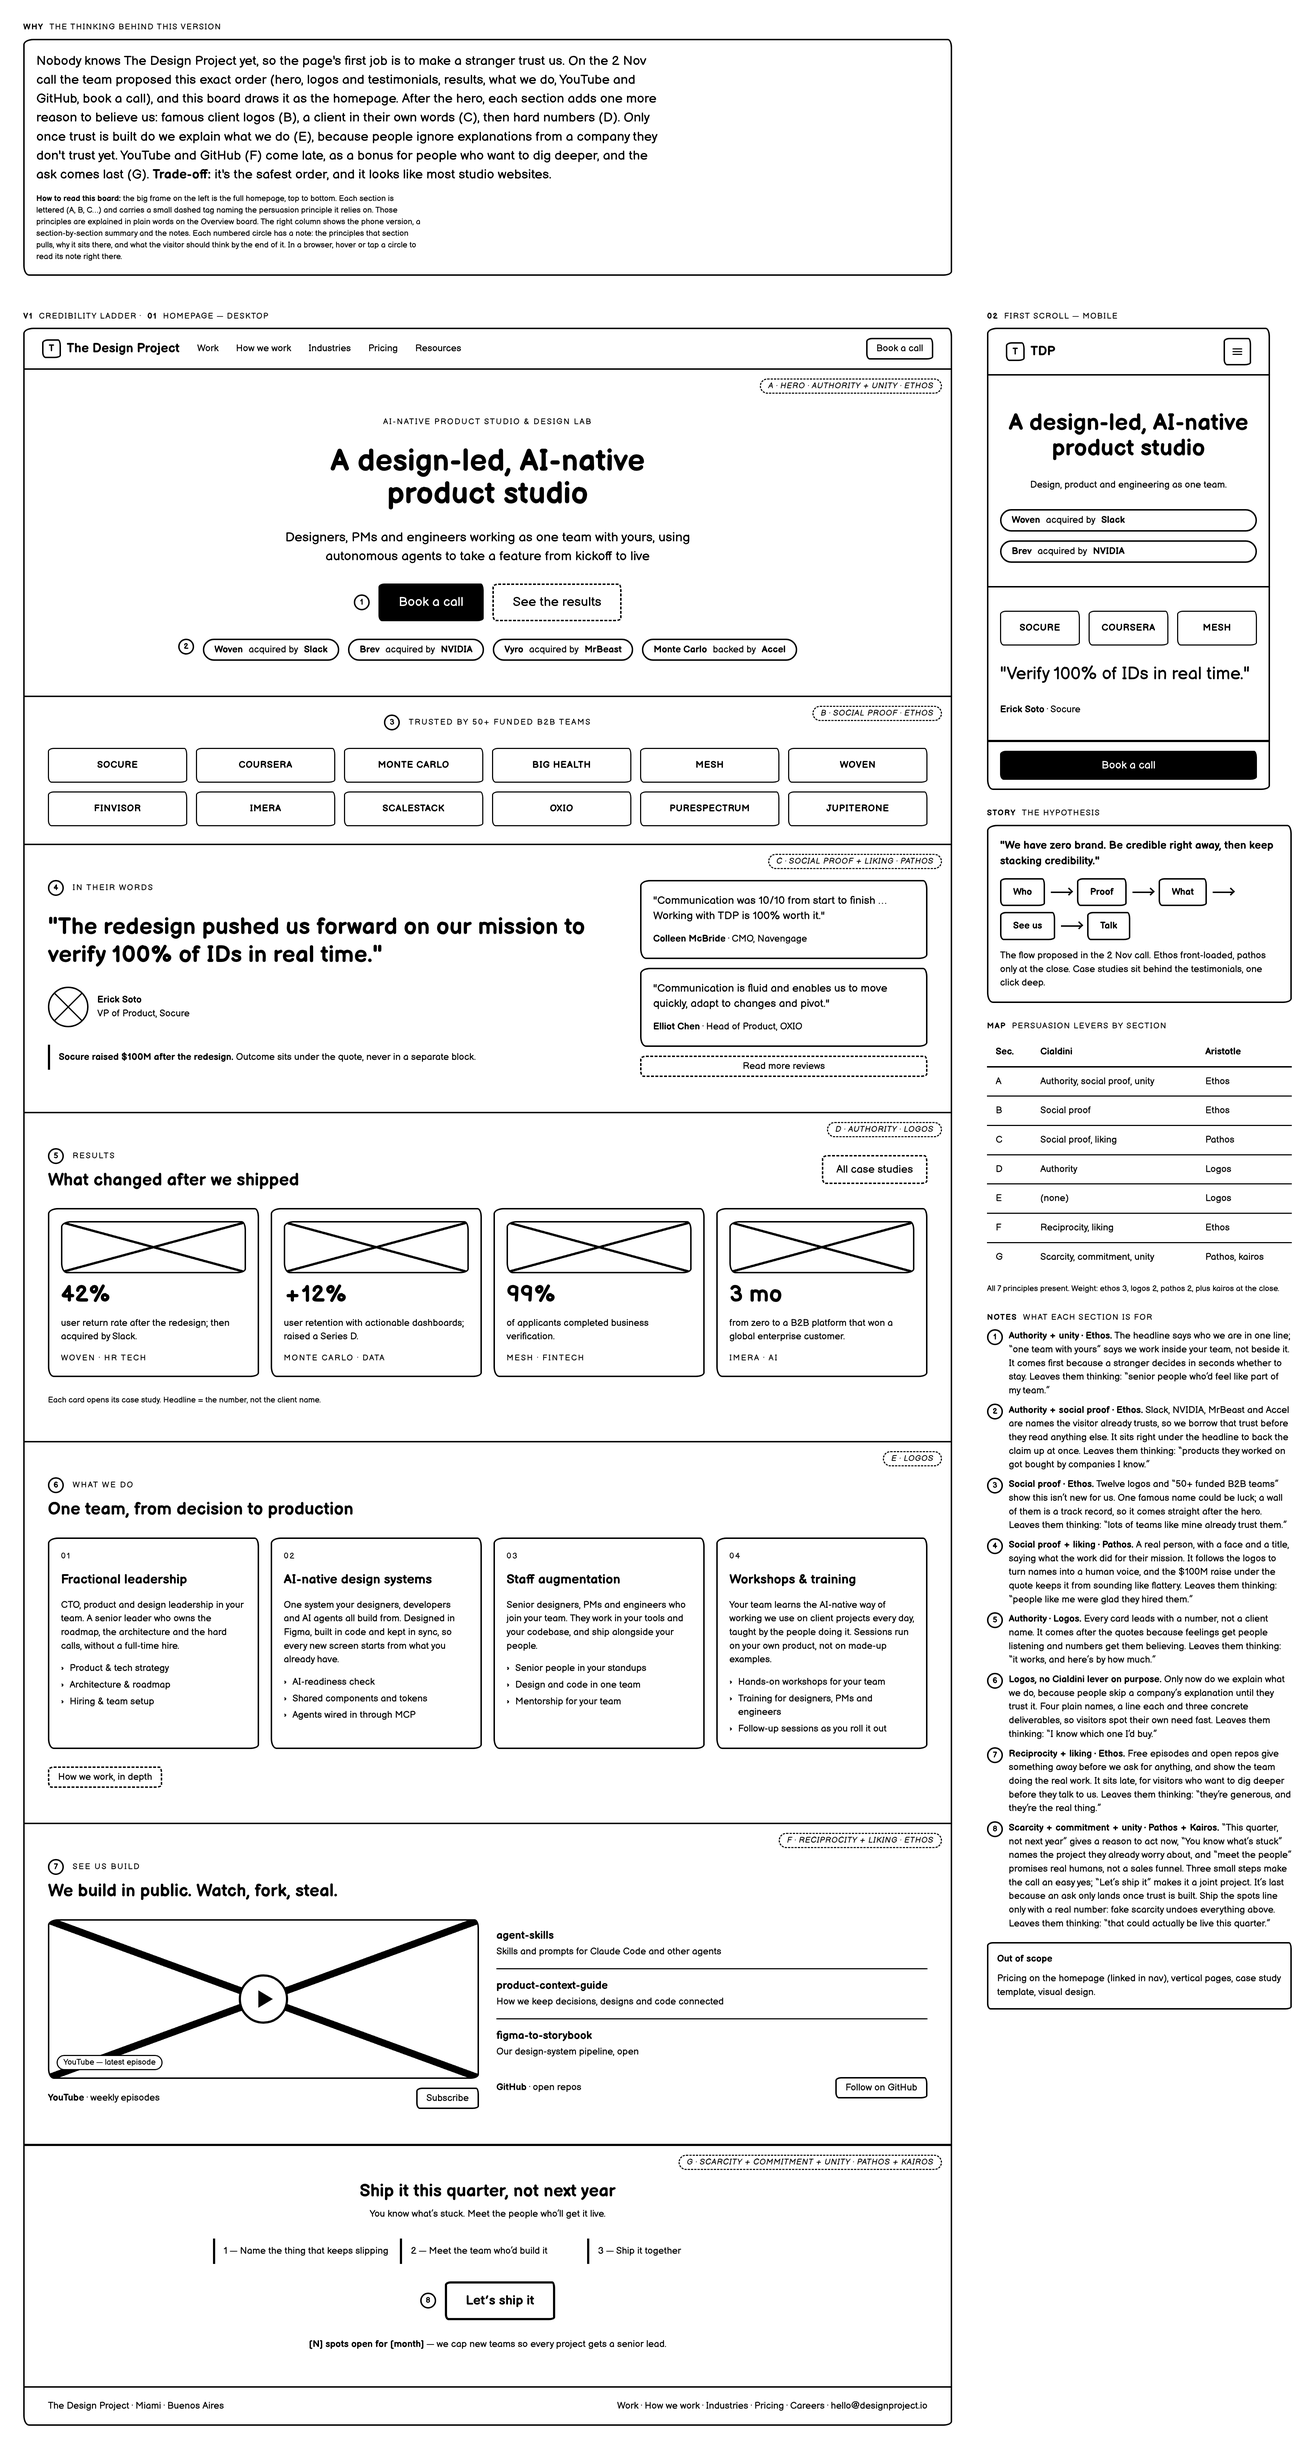
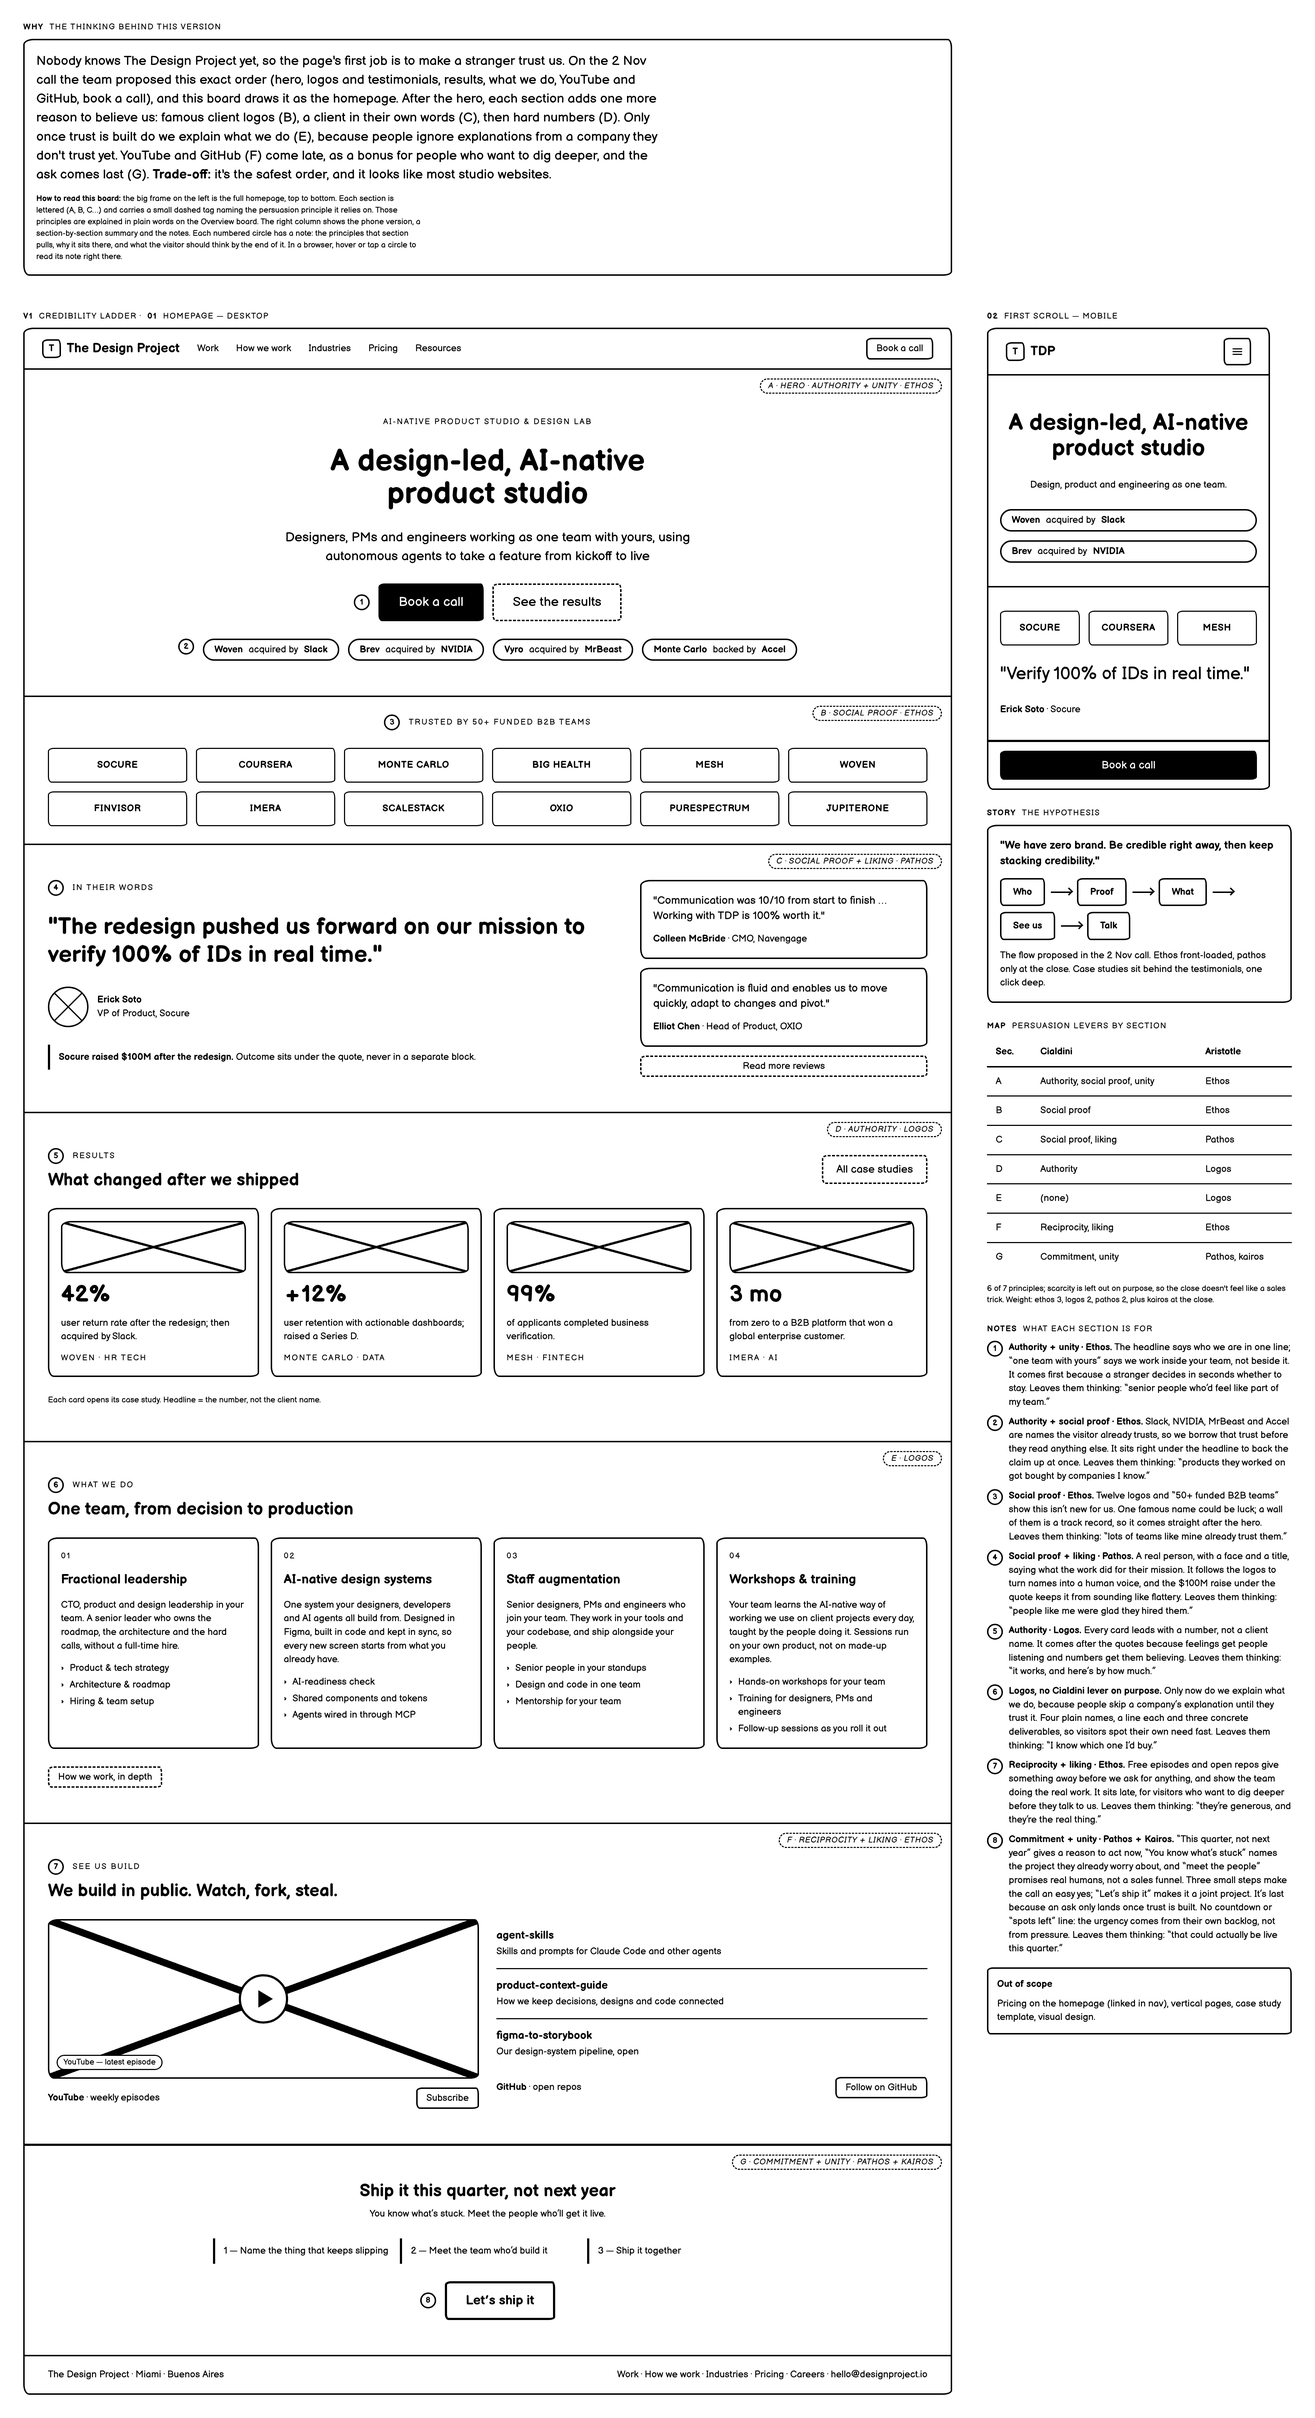
fix(wireframes): V1 close drops the '[N] spots open' line
It read as spammy. Scarcity comes off V1's close tag, map, note 8 and the
round 1 overview matrix; the urgency now comes from the headline.

diff --git a/wireframes/designproject-io/v1-credibility-ladder.standalone.html b/wireframes/designproject-io/v1-credibility-ladder.standalone.html
@@ -934,7 +934,7 @@ small { font-size: var(--fs-xs); }
 
       <!-- G. close -->
       <section class="section section--loud section--center">
-        <span class="lens">G · Scarcity + Commitment + Unity · Pathos + Kairos</span>
+        <span class="lens">G · Commitment + Unity · Pathos + Kairos</span>
         <div class="section__head">
           <h2>Ship it this quarter, not next year</h2>
           <p class="muted measure">You know what’s stuck. Meet the people who’ll get it live.</p>
@@ -945,7 +945,6 @@ small { font-size: var(--fs-xs); }
           <div class="callout">3 — Ship it together</div>
         </div>
         <div class="row"><span class="pin">8</span><a class="btn btn--bold btn--lg" href="#">Let’s ship it</a></div>
-        <p class="muted"><strong>[N] spots open for [month]</strong> — we cap new teams so every project gets a senior lead.</p>
       </section>
 
       <footer class="footer">
@@ -1011,10 +1010,10 @@ small { font-size: var(--fs-xs); }
           <tr><td>D</td><td>Authority</td><td>Logos</td></tr>
           <tr><td>E</td><td>(none)</td><td>Logos</td></tr>
           <tr><td>F</td><td>Reciprocity, liking</td><td>Ethos</td></tr>
-          <tr><td>G</td><td>Scarcity, commitment, unity</td><td>Pathos, kairos</td></tr>
+          <tr><td>G</td><td>Commitment, unity</td><td>Pathos, kairos</td></tr>
         </tbody>
       </table>
-      <p class="hint mt-4">All 7 principles present. Weight: ethos 3, logos 2, pathos 2, plus kairos at the close.</p>
+      <p class="hint mt-4">6 of 7 principles; scarcity is left out on purpose, so the close doesn't feel like a sales trick. Weight: ethos 3, logos 2, pathos 2, plus kairos at the close.</p>
     </section>
 
     <section>
@@ -1027,7 +1026,7 @@ small { font-size: var(--fs-xs); }
         <li><span class="pin">5</span><span><strong>Authority · Logos.</strong> Every card leads with a number, not a client name. It comes after the quotes because feelings get people listening and numbers get them believing. Leaves them thinking: “it works, and here’s by how much.”</span></li>
         <li><span class="pin">6</span><span><strong>Logos, no Cialdini lever on purpose.</strong> Only now do we explain what we do, because people skip a company’s explanation until they trust it. Four plain names, a line each and three concrete deliverables, so visitors spot their own need fast. Leaves them thinking: “I know which one I’d buy.”</span></li>
         <li><span class="pin">7</span><span><strong>Reciprocity + liking · Ethos.</strong> Free episodes and open repos give something away before we ask for anything, and show the team doing the real work. It sits late, for visitors who want to dig deeper before they talk to us. Leaves them thinking: “they’re generous, and they’re the real thing.”</span></li>
-        <li><span class="pin">8</span><span><strong>Scarcity + commitment + unity · Pathos + Kairos.</strong> “This quarter, not next year” gives a reason to act now, “You know what’s stuck” names the project they already worry about, and “meet the people” promises real humans, not a sales funnel. Three small steps make the call an easy yes; “Let’s ship it” makes it a joint project. It’s last because an ask only lands once trust is built. Ship the spots line only with a real number: fake scarcity undoes everything above. Leaves them thinking: “that could actually be live this quarter.”</span></li>
+        <li><span class="pin">8</span><span><strong>Commitment + unity · Pathos + Kairos.</strong> “This quarter, not next year” gives a reason to act now, “You know what’s stuck” names the project they already worry about, and “meet the people” promises real humans, not a sales funnel. Three small steps make the call an easy yes; “Let’s ship it” makes it a joint project. It’s last because an ask only lands once trust is built. No countdown or “spots left” line: the urgency comes from their own backlog, not from pressure. Leaves them thinking: “that could actually be live this quarter.”</span></li>
       </ol>
       <div class="todo mt-4">
         <div class="todo__head">Out of scope</div>

diff --git a/wireframes/designproject-io/00-overview.standalone.html b/wireframes/designproject-io/00-overview.standalone.html
@@ -457,6 +457,10 @@ small { font-size: var(--fs-xs); }
 
 /* ── list ─────────────────────────────────────────────────── */
 .list { list-style: none; padding: 0; display: grid; gap: 0; }
+/* Short deliverable lists inside a card: no rules, a › marker per line. */
+.bullets { list-style: none; padding: 0; margin: 0; display: grid; gap: var(--s-1); font-size: var(--fs-sm); }
+.bullets li { display: flex; gap: var(--s-2); }
+.bullets li::before { content: "›"; font-weight: 700; }
 .list__item {
   display: flex;
   align-items: center;
@@ -532,6 +536,42 @@ small { font-size: var(--fs-xs); }
   font-weight: 700;
   line-height: 1;
 }
+
+/* Live pins: a board's script turns each pin into a button that opens its note
+   in a popover next to it (hover, focus or tap). The notes list stays as the
+   print and PNG fallback; popovers never render unless opened. */
+.pin--live { position: relative; cursor: pointer; -webkit-tap-highlight-color: transparent; }
+.pin--live::after { content: ""; position: absolute; inset: -10px; border-radius: 50%; } /* 42px tap target */
+.pin--live:hover, .pin--live[aria-expanded="true"] { background: var(--ink); color: var(--paper); }
+.pin--live:focus-visible { outline: var(--stroke) solid var(--ink); outline-offset: 3px; }
+
+.pin-pop {
+  position: fixed;
+  z-index: 100;
+  width: max-content;
+  max-width: min(340px, calc(100vw - 16px));
+  background: var(--paper);
+  border: var(--stroke-bold) solid var(--ink);
+  border-radius: var(--radius-sm);
+  padding: var(--s-3);
+  display: grid;
+  gap: var(--s-1);
+  font-size: var(--fs-sm);
+  line-height: 1.4;
+  text-align: left;
+}
+.pin-pop[hidden] { display: none; }
+.pin-pop__label { font-size: var(--fs-xs); font-weight: 700; letter-spacing: .08em; text-transform: uppercase; }
+.pin-pop__arrow {
+  position: absolute;
+  width: 12px; height: 12px;
+  background: var(--paper);
+  border: var(--stroke-bold) solid var(--ink);
+  transform: rotate(45deg);
+}
+.pin-pop[data-side="below"] .pin-pop__arrow { top: -8px; border-right: 0; border-bottom: 0; }
+.pin-pop[data-side="above"] .pin-pop__arrow { bottom: -8px; border-left: 0; border-top: 0; }
+@media print { .pin-pop { display: none !important; } }
 
 .notes { list-style: none; padding: 0; display: grid; gap: var(--s-2); font-size: var(--fs-sm); }
 .notes li { display: flex; gap: var(--s-2); align-items: flex-start; }
@@ -848,7 +888,7 @@ small { font-size: var(--fs-xs); }
           <tr><td><strong>Social proof</strong></td><td><span class="badge badge--solid">Main bet</span><br>Logo wall, big testimonial</td><td><span class="badge badge--solid">Main bet</span><br>Testimonial wall</td><td>Proof</td><td>Proof strip, testimonials</td><td>Industry results, teams like you</td></tr>
           <tr><td><strong>Authority</strong></td><td>Hero, results</td><td>Hero, numbers</td><td>Hero, proof, team</td><td>Hero, proof strip, toolbox</td><td>Hero</td></tr>
           <tr><td><strong>Liking</strong></td><td>Big testimonial, YouTube</td><td><span class="badge badge--solid">Main bet</span><br>Testimonial wall</td><td>Team</td><td><span class="badge badge--solid">Main bet</span><br>Watch us build, community</td><td>Teams like you</td></tr>
-          <tr><td><strong>Scarcity</strong></td><td>Close</td><td>Close</td><td>Close</td><td>Close</td><td>Close</td></tr>
+          <tr><td><strong>Scarcity</strong></td><td><span class="muted">Not used</span></td><td>Close</td><td>Close</td><td>Close</td><td>Close</td></tr>
           <tr><td><strong>Unity</strong></td><td>Close</td><td>Teams like you</td><td>Your pain</td><td>Community</td><td><span class="badge badge--solid">Main bet</span><br>Your industry</td></tr>
         <tr><td colspan="6"><div class="rule--dashed"></div></td></tr>
           <tr><td><strong>Ethos (trust)</strong></td><td>Strong (3 of 7 sections)</td><td>Light (1 of 6)</td><td>Strong (3 of 7)</td><td><span class="badge badge--solid">Main bet</span><br>Strongest (4 of 7)</td><td>Medium (2 of 6)</td></tr>

diff --git a/wireframes/designproject-io/v1-credibility-ladder.html b/wireframes/designproject-io/v1-credibility-ladder.html
@@ -219,7 +219,7 @@
 
       <!-- G. close -->
       <section class="section section--loud section--center">
-        <span class="lens">G · Scarcity + Commitment + Unity · Pathos + Kairos</span>
+        <span class="lens">G · Commitment + Unity · Pathos + Kairos</span>
         <div class="section__head">
           <h2>Ship it this quarter, not next year</h2>
           <p class="muted measure">You know what’s stuck. Meet the people who’ll get it live.</p>
@@ -230,7 +230,6 @@
           <div class="callout">3 — Ship it together</div>
         </div>
         <div class="row"><span class="pin">8</span><a class="btn btn--bold btn--lg" href="#">Let’s ship it</a></div>
-        <p class="muted"><strong>[N] spots open for [month]</strong> — we cap new teams so every project gets a senior lead.</p>
       </section>
 
       <footer class="footer">
@@ -296,10 +295,10 @@
           <tr><td>D</td><td>Authority</td><td>Logos</td></tr>
           <tr><td>E</td><td>(none)</td><td>Logos</td></tr>
           <tr><td>F</td><td>Reciprocity, liking</td><td>Ethos</td></tr>
-          <tr><td>G</td><td>Scarcity, commitment, unity</td><td>Pathos, kairos</td></tr>
+          <tr><td>G</td><td>Commitment, unity</td><td>Pathos, kairos</td></tr>
         </tbody>
       </table>
-      <p class="hint mt-4">All 7 principles present. Weight: ethos 3, logos 2, pathos 2, plus kairos at the close.</p>
+      <p class="hint mt-4">6 of 7 principles; scarcity is left out on purpose, so the close doesn't feel like a sales trick. Weight: ethos 3, logos 2, pathos 2, plus kairos at the close.</p>
     </section>
 
     <section>
@@ -312,7 +311,7 @@
         <li><span class="pin">5</span><span><strong>Authority · Logos.</strong> Every card leads with a number, not a client name. It comes after the quotes because feelings get people listening and numbers get them believing. Leaves them thinking: “it works, and here’s by how much.”</span></li>
         <li><span class="pin">6</span><span><strong>Logos, no Cialdini lever on purpose.</strong> Only now do we explain what we do, because people skip a company’s explanation until they trust it. Four plain names, a line each and three concrete deliverables, so visitors spot their own need fast. Leaves them thinking: “I know which one I’d buy.”</span></li>
         <li><span class="pin">7</span><span><strong>Reciprocity + liking · Ethos.</strong> Free episodes and open repos give something away before we ask for anything, and show the team doing the real work. It sits late, for visitors who want to dig deeper before they talk to us. Leaves them thinking: “they’re generous, and they’re the real thing.”</span></li>
-        <li><span class="pin">8</span><span><strong>Scarcity + commitment + unity · Pathos + Kairos.</strong> “This quarter, not next year” gives a reason to act now, “You know what’s stuck” names the project they already worry about, and “meet the people” promises real humans, not a sales funnel. Three small steps make the call an easy yes; “Let’s ship it” makes it a joint project. It’s last because an ask only lands once trust is built. Ship the spots line only with a real number: fake scarcity undoes everything above. Leaves them thinking: “that could actually be live this quarter.”</span></li>
+        <li><span class="pin">8</span><span><strong>Commitment + unity · Pathos + Kairos.</strong> “This quarter, not next year” gives a reason to act now, “You know what’s stuck” names the project they already worry about, and “meet the people” promises real humans, not a sales funnel. Three small steps make the call an easy yes; “Let’s ship it” makes it a joint project. It’s last because an ask only lands once trust is built. No countdown or “spots left” line: the urgency comes from their own backlog, not from pressure. Leaves them thinking: “that could actually be live this quarter.”</span></li>
       </ol>
       <div class="todo mt-4">
         <div class="todo__head">Out of scope</div>

diff --git a/wireframes/designproject-io/00-overview.html b/wireframes/designproject-io/00-overview.html
@@ -173,7 +173,7 @@
           <tr><td><strong>Social proof</strong></td><td><span class="badge badge--solid">Main bet</span><br>Logo wall, big testimonial</td><td><span class="badge badge--solid">Main bet</span><br>Testimonial wall</td><td>Proof</td><td>Proof strip, testimonials</td><td>Industry results, teams like you</td></tr>
           <tr><td><strong>Authority</strong></td><td>Hero, results</td><td>Hero, numbers</td><td>Hero, proof, team</td><td>Hero, proof strip, toolbox</td><td>Hero</td></tr>
           <tr><td><strong>Liking</strong></td><td>Big testimonial, YouTube</td><td><span class="badge badge--solid">Main bet</span><br>Testimonial wall</td><td>Team</td><td><span class="badge badge--solid">Main bet</span><br>Watch us build, community</td><td>Teams like you</td></tr>
-          <tr><td><strong>Scarcity</strong></td><td>Close</td><td>Close</td><td>Close</td><td>Close</td><td>Close</td></tr>
+          <tr><td><strong>Scarcity</strong></td><td><span class="muted">Not used</span></td><td>Close</td><td>Close</td><td>Close</td><td>Close</td></tr>
           <tr><td><strong>Unity</strong></td><td>Close</td><td>Teams like you</td><td>Your pain</td><td>Community</td><td><span class="badge badge--solid">Main bet</span><br>Your industry</td></tr>
         <tr><td colspan="6"><div class="rule--dashed"></div></td></tr>
           <tr><td><strong>Ethos (trust)</strong></td><td>Strong (3 of 7 sections)</td><td>Light (1 of 6)</td><td>Strong (3 of 7)</td><td><span class="badge badge--solid">Main bet</span><br>Strongest (4 of 7)</td><td>Medium (2 of 6)</td></tr>

diff --git a/wireframes/designproject-io/README.md b/wireframes/designproject-io/README.md
@@ -64,7 +64,7 @@ See the matrix on [00 Overview](00-overview.png) for which version leads with wh
 2. The **Finvisor result metric** (Finvisor is first in "Selected work" today but has no number).
 3. **8–12 quotes with faces** if V2 wins (we have 3 usable today: Socure, Navengage, OXIO).
 4. **Real team photos**, no stock.
-5. A **true capacity number** for any scarcity line.
+5. A **true capacity number**, only if a scarcity line comes back. V1 (chosen) closes without one.
 
 ## Fix before anything ships
 
